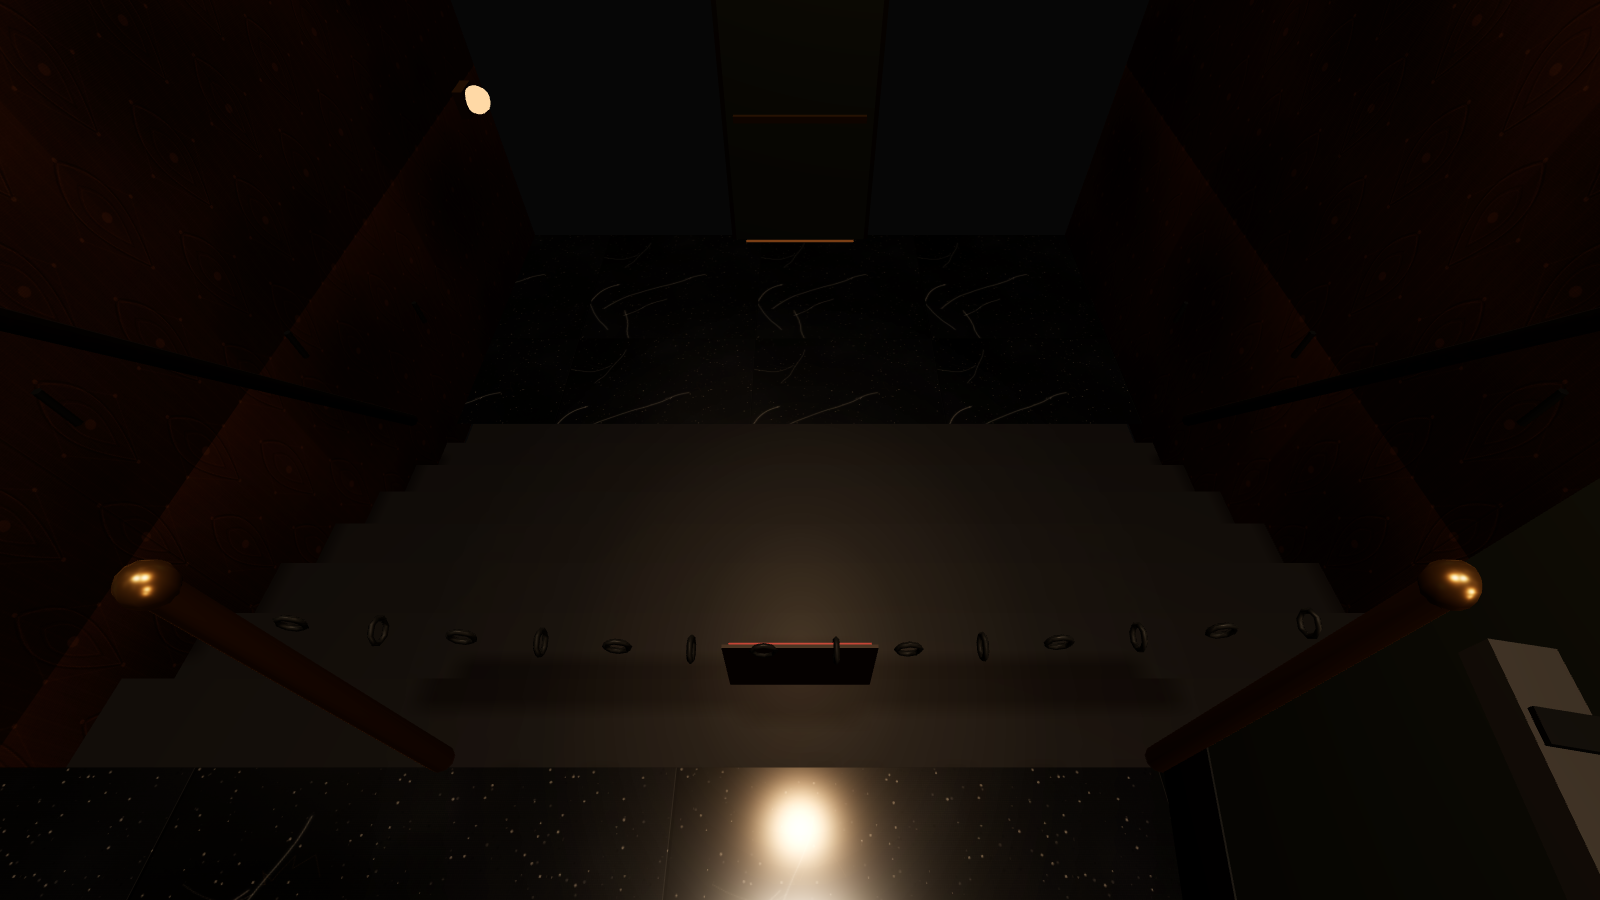
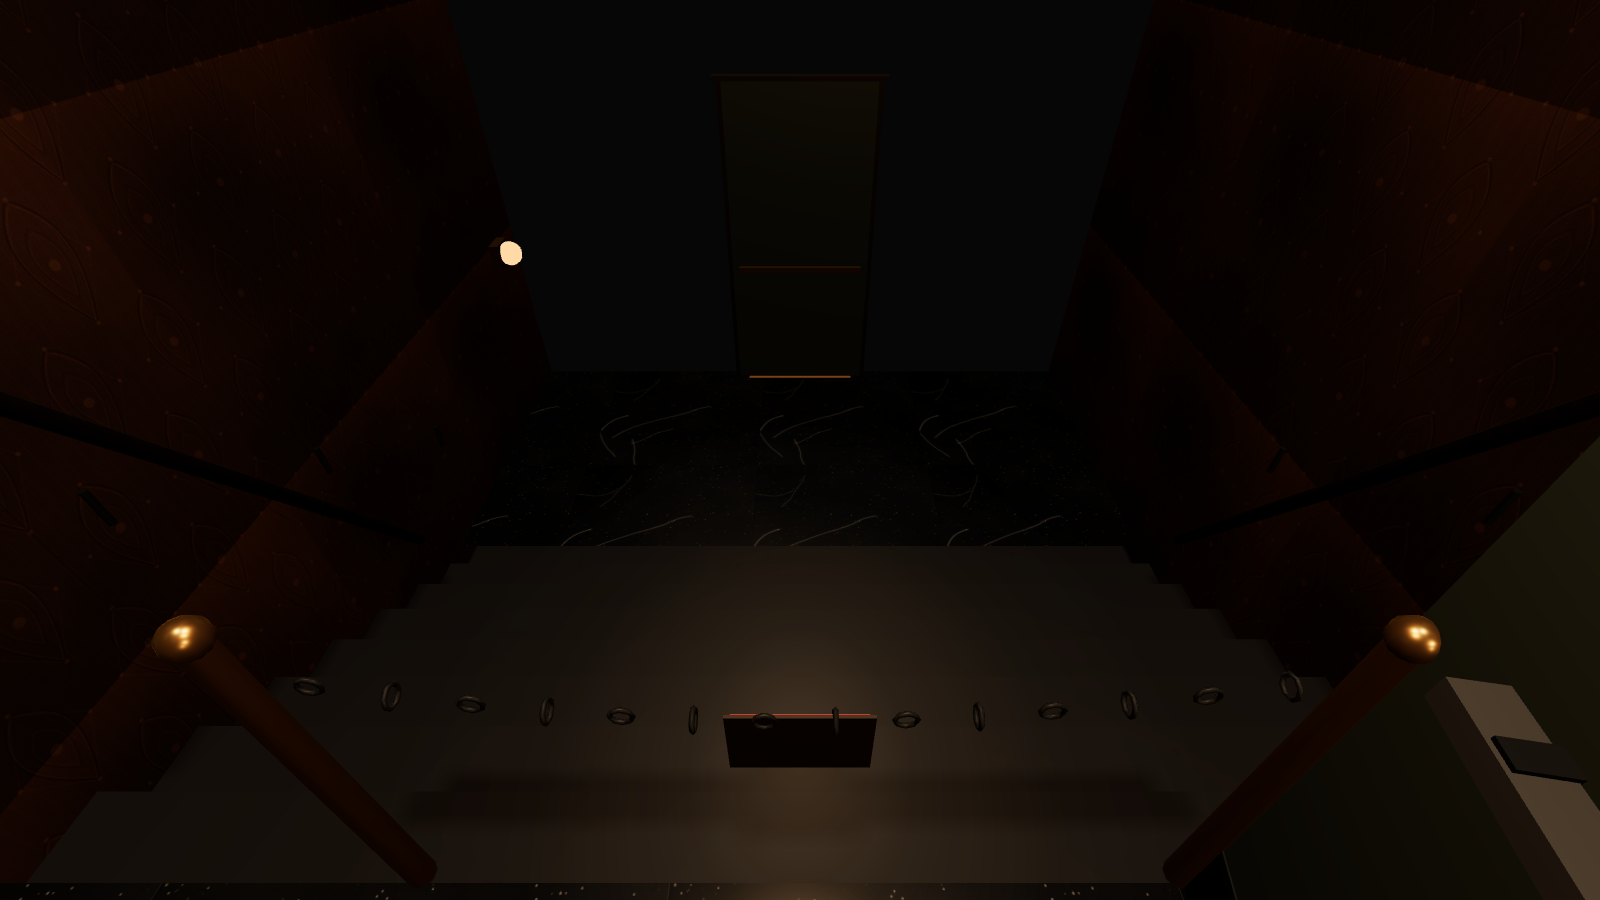
deploy: 楼梯间补光、休息室到达视图与文档

diff --git a/residence/src/scene.js b/residence/src/scene.js
@@ -254,6 +254,7 @@ export class ResidenceScene {
     const accents = [
       { x: 10.2, y: 2.25, z: 7.7, color: 0xffb877, intensity: 3.4, distance: 5.0 },
       { x: 50.7, y: 2.4, z: 14.55, color: 0xffc998, intensity: 3.6, distance: 5.5 },
+      { x: 54.0, y: 2.35, z: 25.6, color: 0xffc998, intensity: 3.2, distance: 4.6 },
     ];
     for (const accent of accents) {
       const light = new THREE.PointLight(accent.color, accent.intensity, accent.distance, 2);

diff --git a/residence/README.md b/residence/README.md
@@ -84,7 +84,8 @@
 | ![铁栅栏门打开](preview/final/gate-open-detail.png) | ![平板锁定时](preview/final/gate-locked.png) |
 | ![电梯门](preview/final/lift.png) | ![楼梯间梯段](preview/final/stair.png) |
 | ![N 杂物间门](preview/final/storage.png) | ![东走廊](preview/final/east-corridor.png) |
-| ![南走廊](preview/final/south-corridor.png) | ![同页 HUD](preview/final/hub.png) |
+| ![南走廊](preview/final/south-corridor.png) | ![到达休息室大门](preview/final/lounge-arrival.png) |
+| ![同页 HUD](preview/final/hub.png) | |
 
 ## 文件与工具
 

diff --git a/residence/VALIDATION.md b/residence/VALIDATION.md
@@ -29,7 +29,7 @@
 | 门后空间 | 未建门后为黑背板；楼梯间是唯一可见内部 |
 | 碰撞 | 楼梯间门洞 / 梯口铁链 / 铁栅栏门动态碰撞正常 |
 | 性能 | 独立页 38 calls / 14,052 tris / 27 batches / 27 interactives / 8 textures / 60 FPS；hub 40 textures，1600×900 预热后约 48–60 FPS |
-| 截图 | `preview/final/` 16 张，包含楼梯间与单樘休息室门 |
+| 截图 | `preview/final/` 17 张，包含楼梯间与休息室到达视图 |
 
 ## 复现
 
